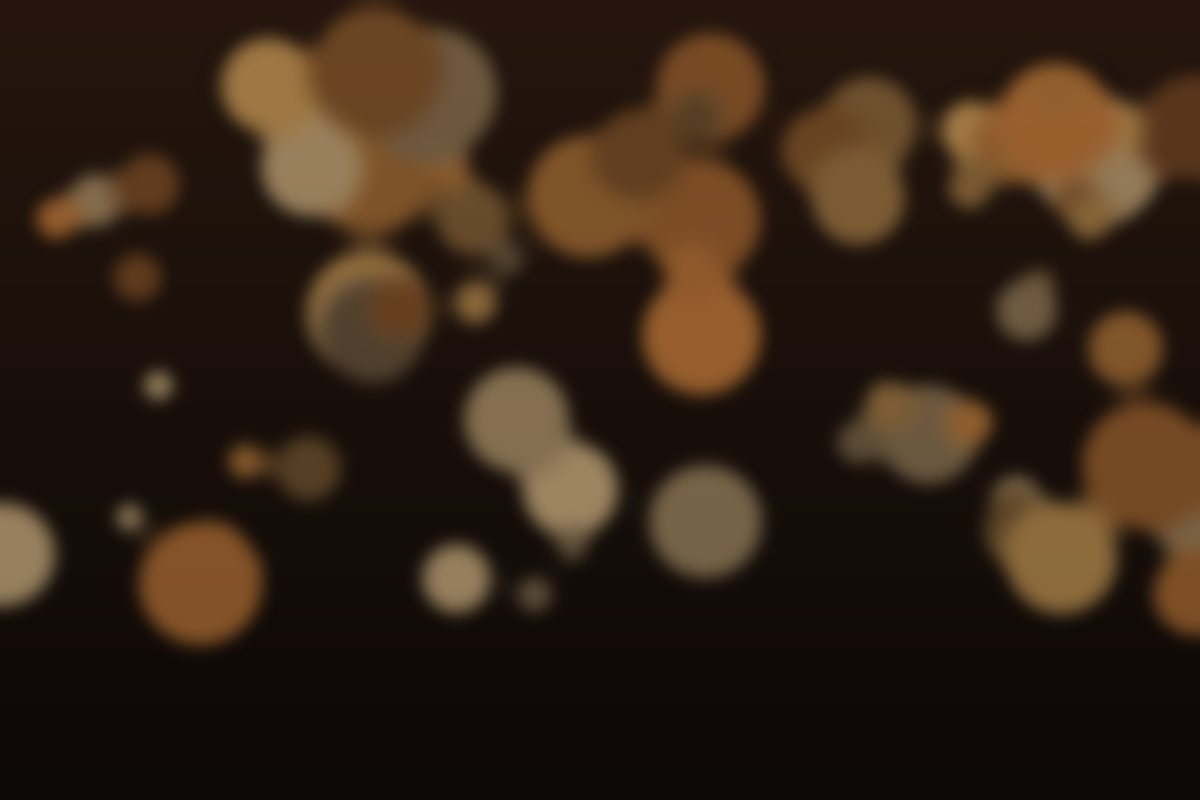
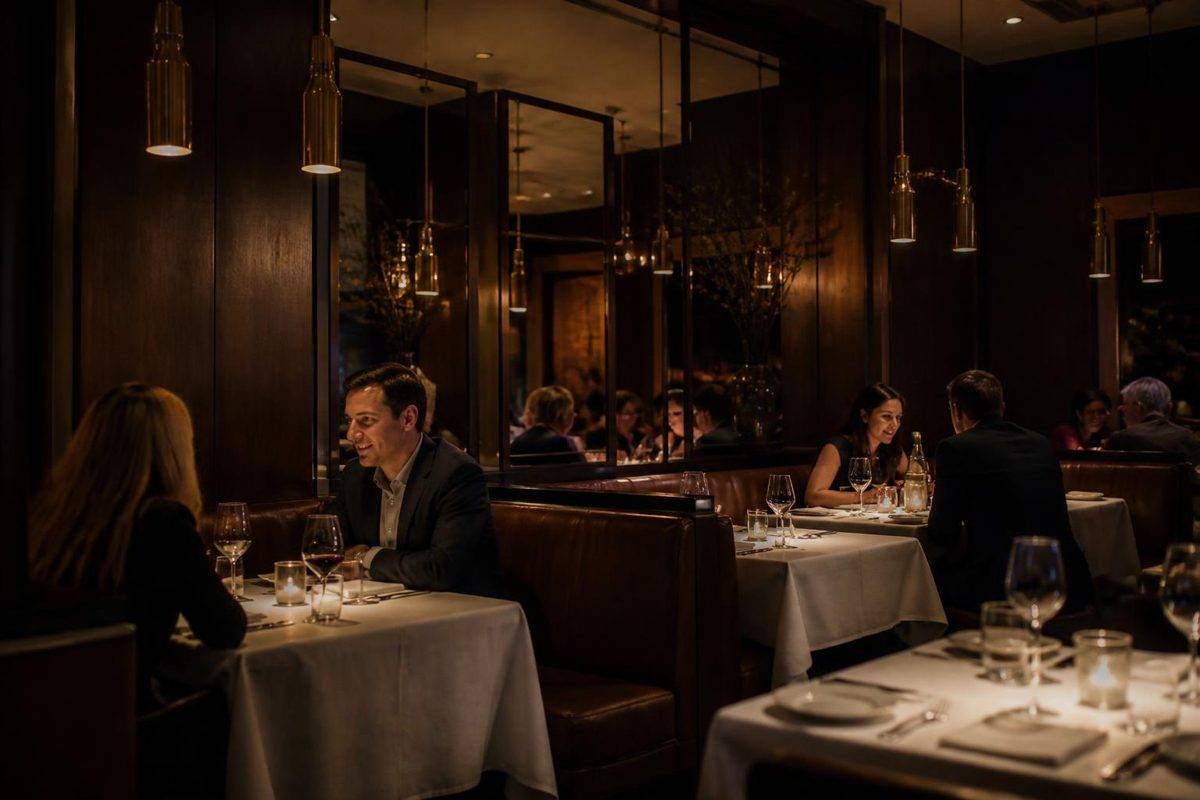
Demo partner photos

diff --git a/netlify/functions/lib/demo-partners.js b/netlify/functions/lib/demo-partners.js
@@ -30,11 +30,11 @@ const VENUES = require('../../../data/venues.json');
 const DEMO = [
   { kind: 'restaurant', id: 'demo-restaurant', name: 'Overture Kitchen & Bar', dLat: 0.0029, dLng: 0.0008,
     blurb: 'Seasonal American plates and cocktails, a short walk from the venue. Open late on show nights.',
-    photo: `${SITE}/img/demo/overture-kitchen.jpg`, url: `${SITE}/partners/restaurants`,
+    photo: `${SITE}/img/demo/overture-kitchen.jpg?v=2`, url: `${SITE}/partners/restaurants`,
     offer: 'Free dessert on show nights', details: 'Show this in the Concerto app when you order. Dine-in only.' },
   { kind: 'hotel', id: 'demo-hotel', name: 'The Coda Hotel', dLat: -0.0012, dLng: 0.0041,
     blurb: 'Boutique rooms steps from the venue, with a rooftop bar that stays open after the show.',
-    photo: `${SITE}/img/demo/coda-hotel.jpg`, url: `${SITE}/partners/hotels`,
+    photo: `${SITE}/img/demo/coda-hotel.jpg?v=2`, url: `${SITE}/partners/hotels`,
     offer: 'Late checkout after the show', details: 'Show this at check-in. Subject to availability.' },
 ];
 
